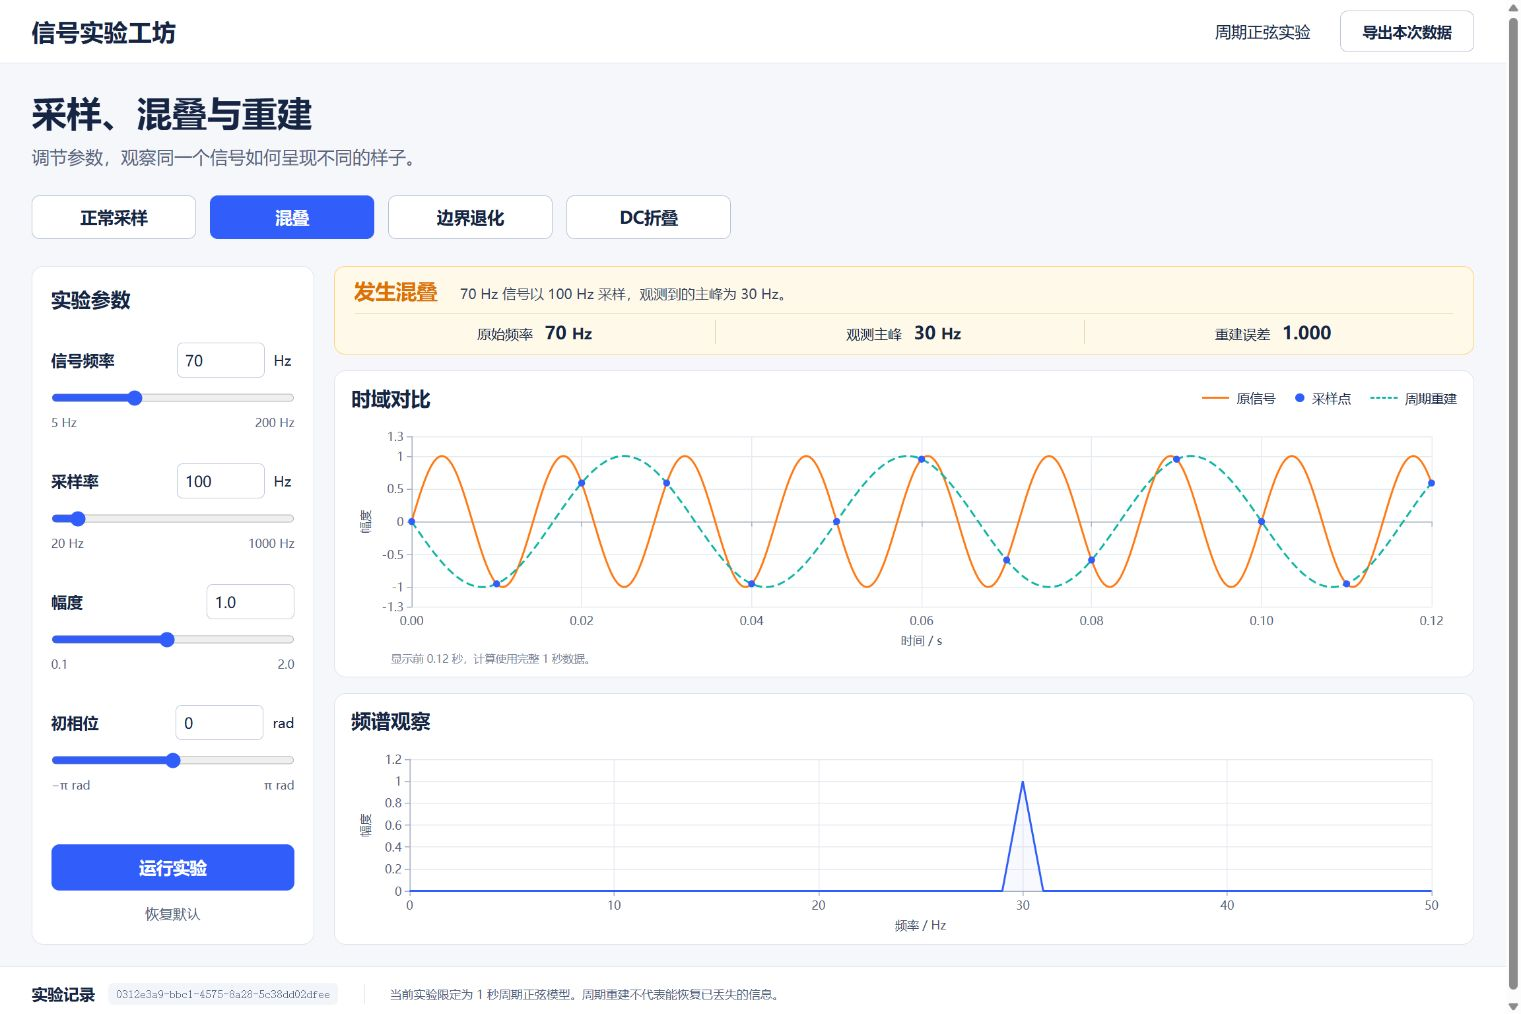
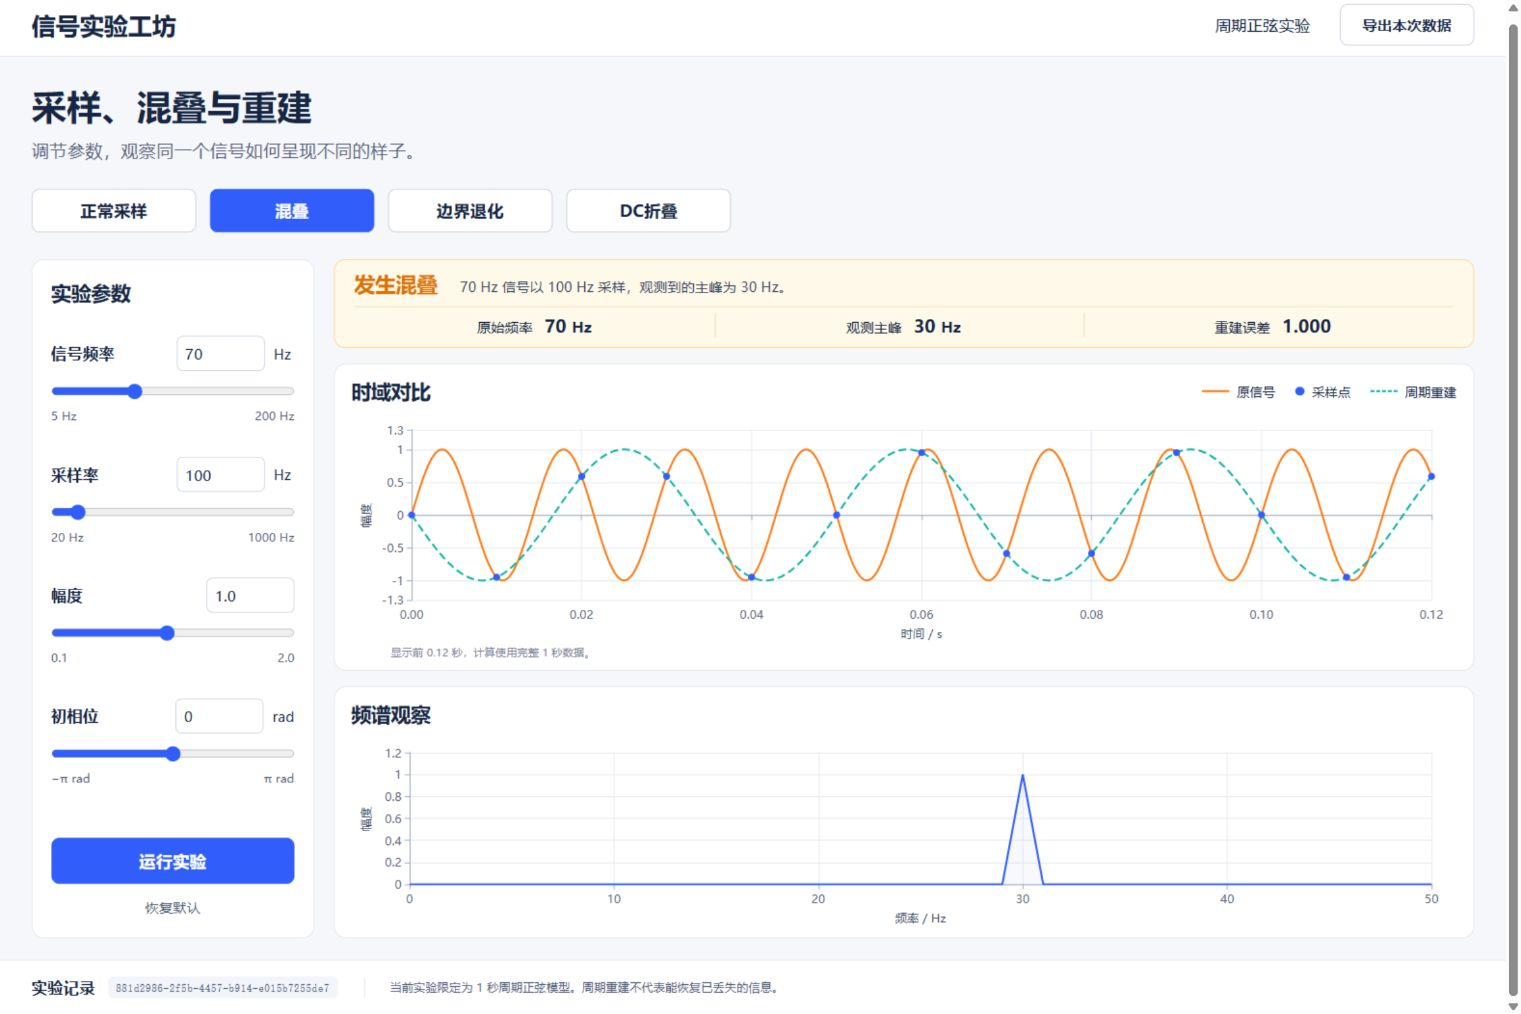
fix: format spectral peak labels without changing experiment data

diff --git a/frontend/src/features/lab/RunSummary.tsx b/frontend/src/features/lab/RunSummary.tsx
@@ -1,9 +1,11 @@
 import type { ExperimentRun } from '../../api';
+import { formatFrequency } from './format';
 
 export function RunSummary({ run }: { run: ExperimentRun | null }) {
   if (!run) return <section className="run-summary neutral" aria-label="实验结果"><strong>等待实验结果</strong><p>运行实验后，查看真实计算结果。</p></section>;
   const { metrics, params, warnings } = run;
   const degenerate = warnings.includes('DEGENERATE_SAMPLES');
+  const peakLabel = metrics.peak_frequency_hz === null ? '无有效主峰' : `${formatFrequency(metrics.peak_frequency_hz)} Hz`;
   let title = '采样充分';
   let message = `${params.frequency_hz} Hz 信号以 ${params.sample_rate_hz} Hz 采样，当前周期模型可重建。`;
   let tone = 'safe';
@@ -12,13 +14,13 @@ export function RunSummary({ run }: { run: ExperimentRun | null }) {
     message = degenerate ? '当前初相位使采样点接近零，不能据此恢复原信号。' : '采样率恰好为信号频率的两倍，边界处不能保证唯一重建。';
   } else if (metrics.sampling_state === 'undersampled') {
     title = degenerate ? '退化采样' : '发生混叠'; tone = 'warning';
-    message = degenerate ? '采样点接近零，原信号的信息已丢失；这不是恢复成功。' : `${params.frequency_hz} Hz 信号以 ${params.sample_rate_hz} Hz 采样，观测到的主峰为 ${metrics.peak_frequency_hz} Hz。`;
+    message = degenerate ? '采样点接近零，原信号的信息已丢失；这不是恢复成功。' : `${params.frequency_hz} Hz 信号以 ${params.sample_rate_hz} Hz 采样，观测到的主峰为 ${peakLabel}。`;
   }
   return <section className={`run-summary ${tone}`} aria-label="实验结果" aria-live="polite">
     <div className="summary-explanation"><strong>{title}</strong><p>{message}</p></div>
     <dl className="metrics">
       <div><dt>原始频率</dt><dd>{params.frequency_hz} <span>Hz</span></dd></div>
-      <div><dt>观测主峰</dt><dd>{metrics.peak_frequency_hz === null ? '无有效主峰' : <>{metrics.peak_frequency_hz} <span>Hz</span></>}</dd></div>
+      <div><dt>观测主峰</dt><dd>{metrics.peak_frequency_hz === null ? '无有效主峰' : <>{formatFrequency(metrics.peak_frequency_hz)} <span>Hz</span></>}</dd></div>
       <div><dt>重建误差</dt><dd>{metrics.reconstruction_rmse < 0.0005 ? '< 0.001' : metrics.reconstruction_rmse.toFixed(3)}</dd></div>
     </dl>
   </section>;

diff --git a/frontend/src/features/lab/SignalPlots.tsx b/frontend/src/features/lab/SignalPlots.tsx
@@ -6,6 +6,7 @@ import { GridComponent, TooltipComponent } from 'echarts/components';
 import { SVGRenderer } from 'echarts/renderers';
 import type { ExperimentRun } from '../../api';
 import { buildPlotOptions } from './plots';
+import { formatFrequency } from './format';
 
 echarts.use([LineChart, ScatterChart, GridComponent, TooltipComponent, SVGRenderer]);
 
@@ -34,7 +35,7 @@ export function SignalPlots({ run }: { run: ExperimentRun | null }) {
     </section>
     <section className="chart-panel panel frequency-chart" aria-labelledby="frequency-heading">
       <div className="chart-heading"><h2 id="frequency-heading">频谱观察</h2></div>
-      {options && run ? <Plot option={options.frequency} label={`单边频谱：${run.metrics.peak_frequency_hz === null ? '无有效主峰' : `主峰${run.metrics.peak_frequency_hz}Hz`}`} /> : <div className="plot-empty">运行实验后显示频谱。</div>}
+      {options && run ? <Plot option={options.frequency} label={`单边频谱：${run.metrics.peak_frequency_hz === null ? '无有效主峰' : `主峰${formatFrequency(run.metrics.peak_frequency_hz)}Hz`}`} /> : <div className="plot-empty">运行实验后显示频谱。</div>}
     </section>
   </>;
 }

diff --git a/frontend/src/features/lab/RunSummary.test.tsx b/frontend/src/features/lab/RunSummary.test.tsx
@@ -1,0 +1,20 @@
+import { render, screen } from '@testing-library/react';
+import { describe, expect, it } from 'vitest';
+import type { ExperimentRun } from '../../api';
+import { RunSummary } from './RunSummary';
+
+describe('RunSummary', () => {
+  it.each(['well_sampled', 'undersampled'] as const)('keeps floating point noise out of %s frequency labels', (state) => {
+    const run: ExperimentRun = {
+      run_id: 'precise-run', experiment_type: 'sampling_aliasing', engine_version: 'test-transport',
+      params: { frequency_hz: state === 'well_sampled' ? 5 : 54, sample_rate_hz: 49, amplitude: 1, phase_rad: 0 },
+      series: [], warnings: ['PERIODIC_SIGNAL_MODEL'],
+      metrics: { alias_frequency_hz: 5, peak_frequency_hz: 5.000000000000001, sampling_state: state, sample_rms: 0.707, reconstruction_rmse: 0 },
+    };
+    render(<RunSummary run={run} />);
+    const summary = screen.getByRole('region', { name: '实验结果' });
+    expect(summary).not.toHaveTextContent('5.000000000000001');
+    expect(screen.getByText('观测主峰').nextElementSibling).toHaveTextContent(/^5 Hz$/);
+    expect(run.metrics.peak_frequency_hz).toBe(5.000000000000001);
+  });
+});

diff --git a/frontend/src/features/lab/LabPage.test.tsx b/frontend/src/features/lab/LabPage.test.tsx
@@ -50,6 +50,8 @@ describe('LabPage', () => {
     await act(async () => { first.resolve(response(aliased)); });
     expect(screen.getByText('run-B')).toBeVisible();
     expect(screen.queryByText('run-A')).not.toBeInTheDocument();
+    expect(screen.getByRole('spinbutton', { name: '信号频率' })).toHaveValue(50);
+    expect(screen.getByRole('spinbutton', { name: '采样率' })).toHaveValue(400);
   });
 
   it('rejects invalid draft input without replacing the previous valid result', async () => {

diff --git a/frontend/src/features/lab/format.ts b/frontend/src/features/lab/format.ts
@@ -1,0 +1,4 @@
+// Only display labels are rounded; experiment arrays and exports stay untouched.
+export function formatFrequency(value: number): string {
+  return Number(value.toFixed(6)).toString();
+}

diff --git a/evidence/ai-development/2026-11-03-interactive-lab.md b/evidence/ai-development/2026-11-03-interactive-lab.md
@@ -18,6 +18,7 @@
 4. 默认目录首次启动失败：项目根目录多向上取了一层。先新增默认存储位置测试并观察失败，再修正项目根路径；完整后端42项通过。
 5. 全量测试一次因沙箱默认TEMP不可写而出现13项setup错误（28项计算测试通过），使用已在Task 1采用的项目内TEMP重跑通过；不把环境错误记录当作功能通过。
 6. 浏览器发现初相位0的滑块实际值为-0.001592653589793，原因是以-π为min、0.01为step的原生步长规则。JSDOM同一断言未能复现，日志明确标为特征记录；真实浏览器断言先失败，改为相位允许任意步长后，数值输入与滑块均为0。
+7. 独立审查指出f0=5、fs=49时主峰5.000000000000001被原样展示。先新增正常/欠采样两项显示测试并观察失败，再统一格式化可见主峰及图表无障碍标签；完整前端6项通过。浏览器实测5/49和54/49均显示5Hz，原始计算值与导出不变。
 
 ## 验证记录
 
@@ -25,24 +26,32 @@
 | --- | --- | --- |
 | 后端全量 | 42 passed in 17.03s | 2026-11-03-api-green.log |
 | 依赖检查 | No broken requirements found | 本轮实际命令输出及requirements.lock.txt |
-| 前端交互 | 4 passed | 2026-11-03-frontend-green.log |
+| 前端交互与显示 | 6 passed | 2026-11-03-frontend-green.log |
 | TypeScript及生产构建 | 退出码0 | 2026-11-03-frontend-build.log |
 | 页面身份、非空、无框架错误层 | 通过，标题为信号实验工坊 | IAB页面快照及实际截图 |
 | 控制台 | 本轮读取warn/error为空 | IAB dev.logs |
 | S1/S2/S3/S4 | 主峰50/30/null/null；边界与DC退化分别提示 | 2026-11-03-browser-cases.json |
 | 草稿与非法输入 | 201Hz不提交，保留同一个运行编号并显示错误 | IAB操作与快照 |
 | 下载一致性 | 浏览器下载JSON与按编号GET的对象相等；4096/100/4096/51点 | 本轮Python断言输出；S2运行2b90a0d0-3065-4a76-b649-38af9aa78b5b |
+| 浮点显示修复 | 5/49、54/49页面均显示主峰5Hz | 2026-11-03-frequency-display-red.log、2026-11-03-precision-browser.json |
 | 桌面及手机 | 1536×1024、390×844；无横向溢出 | ../screenshots/task2-desktop.jpg、task2-mobile.jpg |
 
 曲线测试使用真实浏览器绘图。JSDOM仅对图表组件作窄替身，以测试真实页面的请求顺序、校验和错误状态；不把JSDOM通过当作ECharts已绘制的证明。
 
-构建仍有一项体积提示：延迟加载的图表分块509.89kB，gzip173.56kB。没有调高阈值来隐藏提示；当前本机页面正常加载，公网弱网性能尚未测。Python3.12、新机器安装、其他浏览器及真人学习效果尚未验证。
+构建仍有一项体积提示：延迟加载的图表分块509.95kB，gzip173.62kB。没有调高阈值来隐藏提示；当前本机页面正常加载，公网弱网性能尚未测。Python3.12、新机器安装、其他浏览器及真人学习效果尚未验证。
 
 ## 设计与范围
 
 - 生成概念：[signal-lab-desktop-concept.png](../../docs/design/signal-lab-desktop-concept.png)。它是助手选用的参考，不冒充用户批准的截图。
+- [原始图像生成提示词](../../docs/design/concept-generation.md)由当前会话的实际工具调用提取。
 - 原生实现与至少五项视觉对照：[界面基线与核对记录](../../docs/design/task-2-interface.md)。实际数组、参数范围和UUID优先于生成图片中的错误。
 - 页面操作路径：打开→默认混叠→正常采样→边界退化→DC折叠→混叠→导出→201Hz错误→恢复默认；另检查手机布局。
 - 本次没有模型密钥、付费调用、硬件采购或公网发布。完整预测→实验→AI纠错→迁移题仍是后续工作，数值结果不等同教学效果。
 
-本文件是开发摘要，原始交互以私有快照及其清单为准。提交编号和独立审查结论在完成后补录。
+## 提交、审查与原始记录
+
+功能主提交为6b4577e。新上下文审查复跑后端42项和当时前端4项，未发现Critical/Important问题，给出1项Minor浮点显示问题；该项已按上述失败→修复→6项通过及真实浏览器流程处理。审查建议的非零DC/非零奈奎斯特/奇数采样率绘图回归增强记入后续验证范围，没有把建议写成已发现的图表错误。
+
+审查暂不判断的AI/学习流程、公开部署、多用户负载、新机器复现均属于本次范围之外，与执行计划一致；浏览器验收由主代理执行，审查只核对已有证据，二者不混写。
+
+本文件是开发摘要，原始交互以[私有快照清单](2026-11-03-interactive-raw-export-manifest.json)为准。已保存513条原始记录的部分快照，SHA256及范围在清单中；快照在审查完成和显示修复之前截止，最终完整导出与脱敏审核仍须在材料阶段完成。私有原始日志没有进入Git。

diff --git a/docs/design/concept-generation.md b/docs/design/concept-generation.md
@@ -1,0 +1,14 @@
+# 概念图生成记录
+
+内置Image Gen，2026-11-03；不透明背景，全新生成，无参考图片。产物为同目录signal-lab-desktop-concept.png。下面是实际传入的原始提示词，来自当前会话的工具调用，并非事后摘要。
+
+```text
+Use case: ui-mockup. Generate a high fidelity complete desktop web app screen, 1536 by 1024 landscape, for a Chinese university communication-signals educational tool named "信号实验工坊". This is a professional usable scientific lab app, not a marketing landing page. A clean airy high-taste light interface: true-white panels on a very pale cool #f5f7fb page, navy #172544 text, cobalt #315efb primary actions, thin cool gray borders, restrained corner radius 12px, no gradients, no photos, no illustrations. Text-only brand, no custom raster logo. Excellent readable Chinese sans typography.
+Complete screen composition: quiet top bar with text brand on the left, small text "周期正弦实验" and a secondary "导出本次数据" button on the right. Below, left-aligned main heading exactly "采样、混叠与重建" and short subtitle exactly "调节参数，观察同一个信号如何呈现不同的样子。" No kicker, hero badge, promotional metrics, navigation to future AI features, or fake controls.
+Four working-case buttons in a horizontal row: "正常采样", "混叠", "边界退化", "DC折叠". Show 混叠 selected.
+Main lab is a 280px parameter rail on the left and a wide main plotting region on the right. Parameter rail heading "实验参数". Four neatly typeset fields with both numeric values and range sliders: "信号频率" 70 Hz, "采样率" 100 Hz, "幅度" 1.0, "初相位" 0 rad. Each label clearly paired with numeric input. Large cobalt "运行实验" button near rail bottom, then restrained small "恢复默认" text button. This rail has a single white surface, not nested cards.
+Right main plot region has two large stacked white chart surfaces. First heading "时域对比", subtle legend orange "原信号", cobalt "采样点", teal dashed "周期重建"; show original fast 70Hz sine and blue discrete sample dots with slow teal 30Hz reconstruction over x=0 to 0.12 seconds. Light thin grid, real readable axis labels "时间 / s", "幅度". Second heading "频谱观察"; show a blue narrow 30Hz spectral peak on a 0 to 50 Hz horizontal axis, title is not data decoration.
+Below/above chart region a concise amber explanation band "发生混叠" and text "70 Hz 信号以 100 Hz 采样，观测到的主峰为 30 Hz。" Include real concise numeric results in a single inline summary row: "原始频率 70 Hz" / "观测主峰 30 Hz" / "重建误差 1.000". Do not invent accuracy or learning-effect numbers.
+Footer beneath plots contains "实验记录" with a small monospace run identifier, and a modest explanatory sentence "当前实验限定为 1 秒周期正弦模型。周期重建不代表能恢复已丢失的信息。".
+All controls, text and charts are code-native when implemented; this generated image is only the design reference. Make the full app screen complete and legible, no browser chrome, no smartphone inset, no branding watermark, no clipped panels, no scrollbars obscuring content. Keep viewport density comfortable. Mobile later stacks the same rail above plots.
+```

diff --git a/docs/progress/2026-11-03.md b/docs/progress/2026-11-03.md
@@ -7,7 +7,7 @@
 - 增加标准案例导出命令，输出真实运行数据且拒绝覆盖已有结果目录。
 - 先看到28项核心测试失败，再实现并通过；导出命令的2项测试同样先失败再通过。完整测试30项通过，独立审查无待修复问题。
 - 保存原始测试输出、标准案例摘要、Git迭代及本轮原始交互的部分私有快照。
-- 用户追加“继续推进吧”后，完成Task 2的运行API、SQLite与交互网页；后端完整42项、前端4项测试及生产构建通过，审查正在收尾。
+- 用户追加“继续推进吧”后，完成Task 2的运行API、SQLite与交互网页；后端完整42项、前端6项测试及生产构建通过；独立审查无阻断问题，1项浮点显示问题已修复。
 - 浏览器检查四案例切换、草稿提示、非法参数、实际JSON下载与保存记录一致性，以及1536×1024桌面和390×844手机布局。
 
 ## 实际数值结果

diff --git a/evidence/ai-development/index.md b/evidence/ai-development/index.md
@@ -14,4 +14,5 @@
 - 用户原始指令：`继续推进吧`。
 - 本轮范围：计划Task 2，真实运行API、SQLite运行记录、交互绘图、错误提示与导出。
 - [实际开发记录与验证](2026-11-03-interactive-lab.md)。原始失败、修复后输出、标准案例运行编号与截图均在此索引中列出。
+- [原始交互快照清单](2026-11-03-interactive-raw-export-manifest.json)：513条记录，Git忽略的私有快照，截止审查完成与最终修复之前；不是最终完整导出。
 - AI指导、预测/迁移题、真人试用仍未完成，不将数值或UI验证作为学习效果证据。
